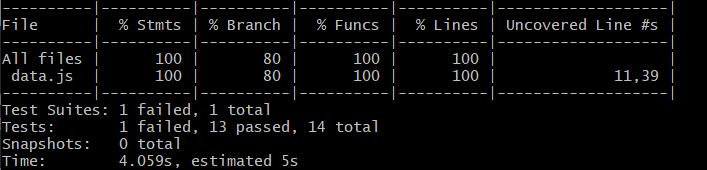
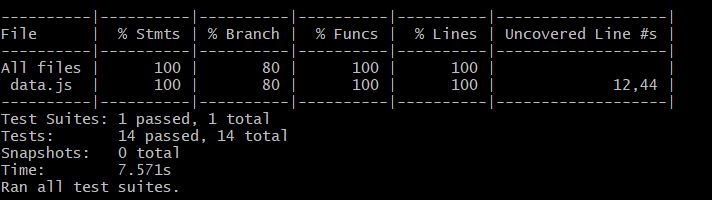
Ultimos cambios en los test y funcion para traducir la data

Changed region(s): [[0.0, 0.0, 0.9646, 1.0]]

diff --git a/test/data.spec.js b/test/data.spec.js
@@ -36,26 +36,6 @@ const orderDataArray=[
   }
 ]
 
-const orderMale=[
-  {
-    name: 'Ron Weasley',
-    gender: 'male',
-    house: 'Gryffindor'
-  },
-  {
-    name: 'Harry Potter',
-    gender: 'male',
-    house: 'Gryffindor'
-  }
-]
-const orderFemale=[
-  {
-    name: 'Hermione Granger',
-    gender: 'female',
-    house: 'Gryffindor'
-  }
-]
-
 const orderHouse=[
   {
     name: 'Ron Weasley',
@@ -67,13 +47,6 @@ const orderHouse=[
     gender: 'male',
     house: 'Gryffindor'
   },
-  {
-    name: 'Draco Malfoy',
-    gender: 'male',
-    house: 'Slytherin'
-  }
-]
-const orderFilterHouse=[
   {
     name: 'Draco Malfoy',
     gender: 'male',
@@ -101,14 +74,6 @@ const orderAncestry=[
     ancestry: 'pure-blood'
   }
 ]
-const orderFilterAncestry=[
-  {
-    name: 'Ron Weasley',
-    gender: 'male',
-    house: 'Gryffindor',
-    ancestry: 'pure-blood'
-  }
-]
 
 const orderStaff=[
   {
@@ -120,35 +85,16 @@ const orderStaff=[
     hogwartsStaff: false
   },
   {
-    name: 'Minerva McGonagall',
-    gender: 'female',
-    house: 'Gryffindor',
-    ancestry: '',
+    name: 'Horace Slughorn',
+    gender: 'male',
+    house: 'Slytherin',
+    ancestry: 'pure-blood',
     hogwartsStudent: false,
-    hogwartsStaff: false
+    hogwartsStaff: true
   }
   
 ]
-const orderFilterStudent=[
-  {
-    name: 'Harry Potter',
-    gender: 'male',
-    house: 'Gryffindor',
-    ancestry: 'half-blood',
-    hogwartsStudent: true,
-    hogwartsStaff: false
-  }
-]
-const orderFilterStaff=[
-  {
-    name: 'Minerva McGonagall',
-    gender: 'female',
-    house: 'Gryffindor',
-    ancestry: '',
-    hogwartsStudent: false,
-    hogwartsStaff: false
-  }
-]
+
 
 describe('orderData', () => {
   
@@ -175,11 +121,28 @@ describe('filterGender', () => {
   });
 
   test('returns male', () => {
-    expect(filterGender(orderDataArray, "male")).toStrictEqual(orderMale);
+    expect(filterGender(orderDataArray, "male")).toStrictEqual([
+      {
+        name: 'Ron Weasley',
+        gender: 'male',
+        house: 'Gryffindor'
+      },
+      {
+        name: 'Harry Potter',
+        gender: 'male',
+        house: 'Gryffindor'
+      }
+    ]);
   });
 
   test('returns female', () => {
-    expect(filterGender(orderDataArray, "female")).toStrictEqual(orderFemale);
+    expect(filterGender(orderDataArray, "female")).toStrictEqual([
+      {
+        name: 'Hermione Granger',
+        gender: 'female',
+        house: 'Gryffindor'
+      }
+    ]);
   });
   
 });
@@ -191,7 +154,13 @@ describe('filterHouse', () => {
   });
 
   test('returns Slytherin', () => {
-    expect(filterHouse(orderHouse, "Slytherin")).toStrictEqual(orderFilterHouse);
+    expect(filterHouse(orderHouse, "Slytherin")).toStrictEqual([
+      {
+        name: 'Draco Malfoy',
+        gender: 'male',
+        house: 'Slytherin'
+      }
+    ]);
   });
 
 });
@@ -203,7 +172,14 @@ describe('filterAncestry', () => {
   });
 
   test('returns Slytherin', () => {
-    expect(filterAncestry(orderAncestry, "pure-blood")).toStrictEqual(orderFilterAncestry);
+    expect(filterAncestry(orderAncestry, "pure-blood")).toStrictEqual([
+      {
+        name: 'Ron Weasley',
+        gender: 'male',
+        house: 'Gryffindor',
+        ancestry: 'pure-blood'
+      }
+      ]);
   });
 
 });
@@ -215,11 +191,29 @@ describe('filterStaff', () => {
   });
 
   test('returns student', () => {
-    expect(filterStaff(orderStaff, "hogwartsStudent")).toStrictEqual(orderFilterStudent);
+    expect(filterStaff(orderStaff, "hogwartsStudent")).toStrictEqual([
+      {
+        name: 'Harry Potter',
+        gender: 'male',
+        house: 'Gryffindor',
+        ancestry: 'half-blood',
+        hogwartsStudent: true,
+        hogwartsStaff: false
+      }
+    ]);
   });
 
   test('returns staff', () => {
-    expect(filterStaff(orderStaff, "hogwartsStaff")).toStrictEqual(orderFilterStaff);
+    expect(filterStaff(orderStaff, "hogwartsStaff")).toEqual([
+      {
+        name: 'Horace Slughorn',
+        gender: 'male',
+        house: 'Slytherin',
+        ancestry: 'pure-blood',
+        hogwartsStudent: false,
+        hogwartsStaff: true
+      }
+    ]);
   });
 
 });

diff --git a/src/main.js b/src/main.js
@@ -27,7 +27,7 @@ function createModal (dataArray) {
                         <p>${dataArray[i].house}</p>
                     </div>
                     <div class="characterInformation2">
-                        <p><strong>Especie:</strong> ${dataArray[i].species}</p>
+                        <p><strong>Especie:</strong> ${translate(dataArray[i].species)}</p>
                         <p><strong>Género:</strong> ${dataArray[i].gender}</p>
                         <p><strong>Fecha de nacimiento:</strong> ${dataArray[i].dateOfBirth}</p>
                         <p><strong>Año de nacimiento:</strong> ${dataArray[i].yearOfBirth}</p>
@@ -35,7 +35,7 @@ function createModal (dataArray) {
                         <p><strong>Color de ojos:</strong> ${dataArray[i].eyeColour}</p>
                         <p><strong>Color de cabello:</strong> ${dataArray[i].hairColour}</p>
                         <p><strong>Actor/Actriz:</strong> ${dataArray[i].actor}</p>
-                        <p><strong>Estado:</strong> ${dataArray[i].alive}</p><br>
+                        <p><strong>Estado:</strong> ${dataArray[i].alive ? "Vivo" : "Muerto"}</p><br>
                         <h3><strong>Varita mágica</strong></h3>
                         <p><strong>Madera:</strong> ${dataArray[i].wand.wood}</p>
                         <p><strong>Núcleo:</strong> ${dataArray[i].wand.core}</p>
@@ -102,8 +102,9 @@ select.addEventListener("change", () =>{ //creamos un listener para cuando se pr
 
 
 //Búsqueda de personajes en tiempo real
+let search = document.getElementById("search");
 search.addEventListener("keyup",()=>{
-    const search = document.querySelector("#search").value; //Traemos la información que ingresa el usuario.
+    let search = document.querySelector("#search").value; //Traemos la información que ingresa el usuario.
     characters.innerHTML = "";
     const informationSearch = search.toLowerCase(); //convierte lo que ingresa el usuario en minúscula.
     let searchArray=[]; //Declaramos el nuevo arreglo para guardar los resultados de la búsqueda.
@@ -202,14 +203,33 @@ selectStaff.addEventListener("change", () =>{
     }
 })
 
-function translate(dataArray){
+/*function translate(dataArray){
     let traduccion= [];
     for(let i=0; i<dataArray.length;i++){
-      if(dataArray[i] == ["human"]){
-        traduccion.push(["Humano"]);
-      }else if (dataArray[i] == "male"){
-        traduccion.push("Hombre");
-        }
+        if(dataArray[i] === "human"){
+            console.log(dataArray[i]);
+            traduccion.push("Humano");
+        }else if (dataArray[i] == "male"){
+            traduccion.push("Hombre");
+        }else
+            traduccion.push("No existe");
     }
     return traduccion;
+}*/
+
+function translate(dataArray){
+    let traduccion= dataArray.replace("human","Humano");
+    return traduccion;
+    
 }
+
+/*function translate(dataArray){
+    let traduccion= [];
+    for(let i=0; i<dataArray.length;i++){
+        if(dataArray[i].species == "human"){
+            dataArray.replace("human","Humano");
+        } 
+       traduccion = dataArray.replace("cat","Gato");
+    }
+    return traduccion;
+}*/
